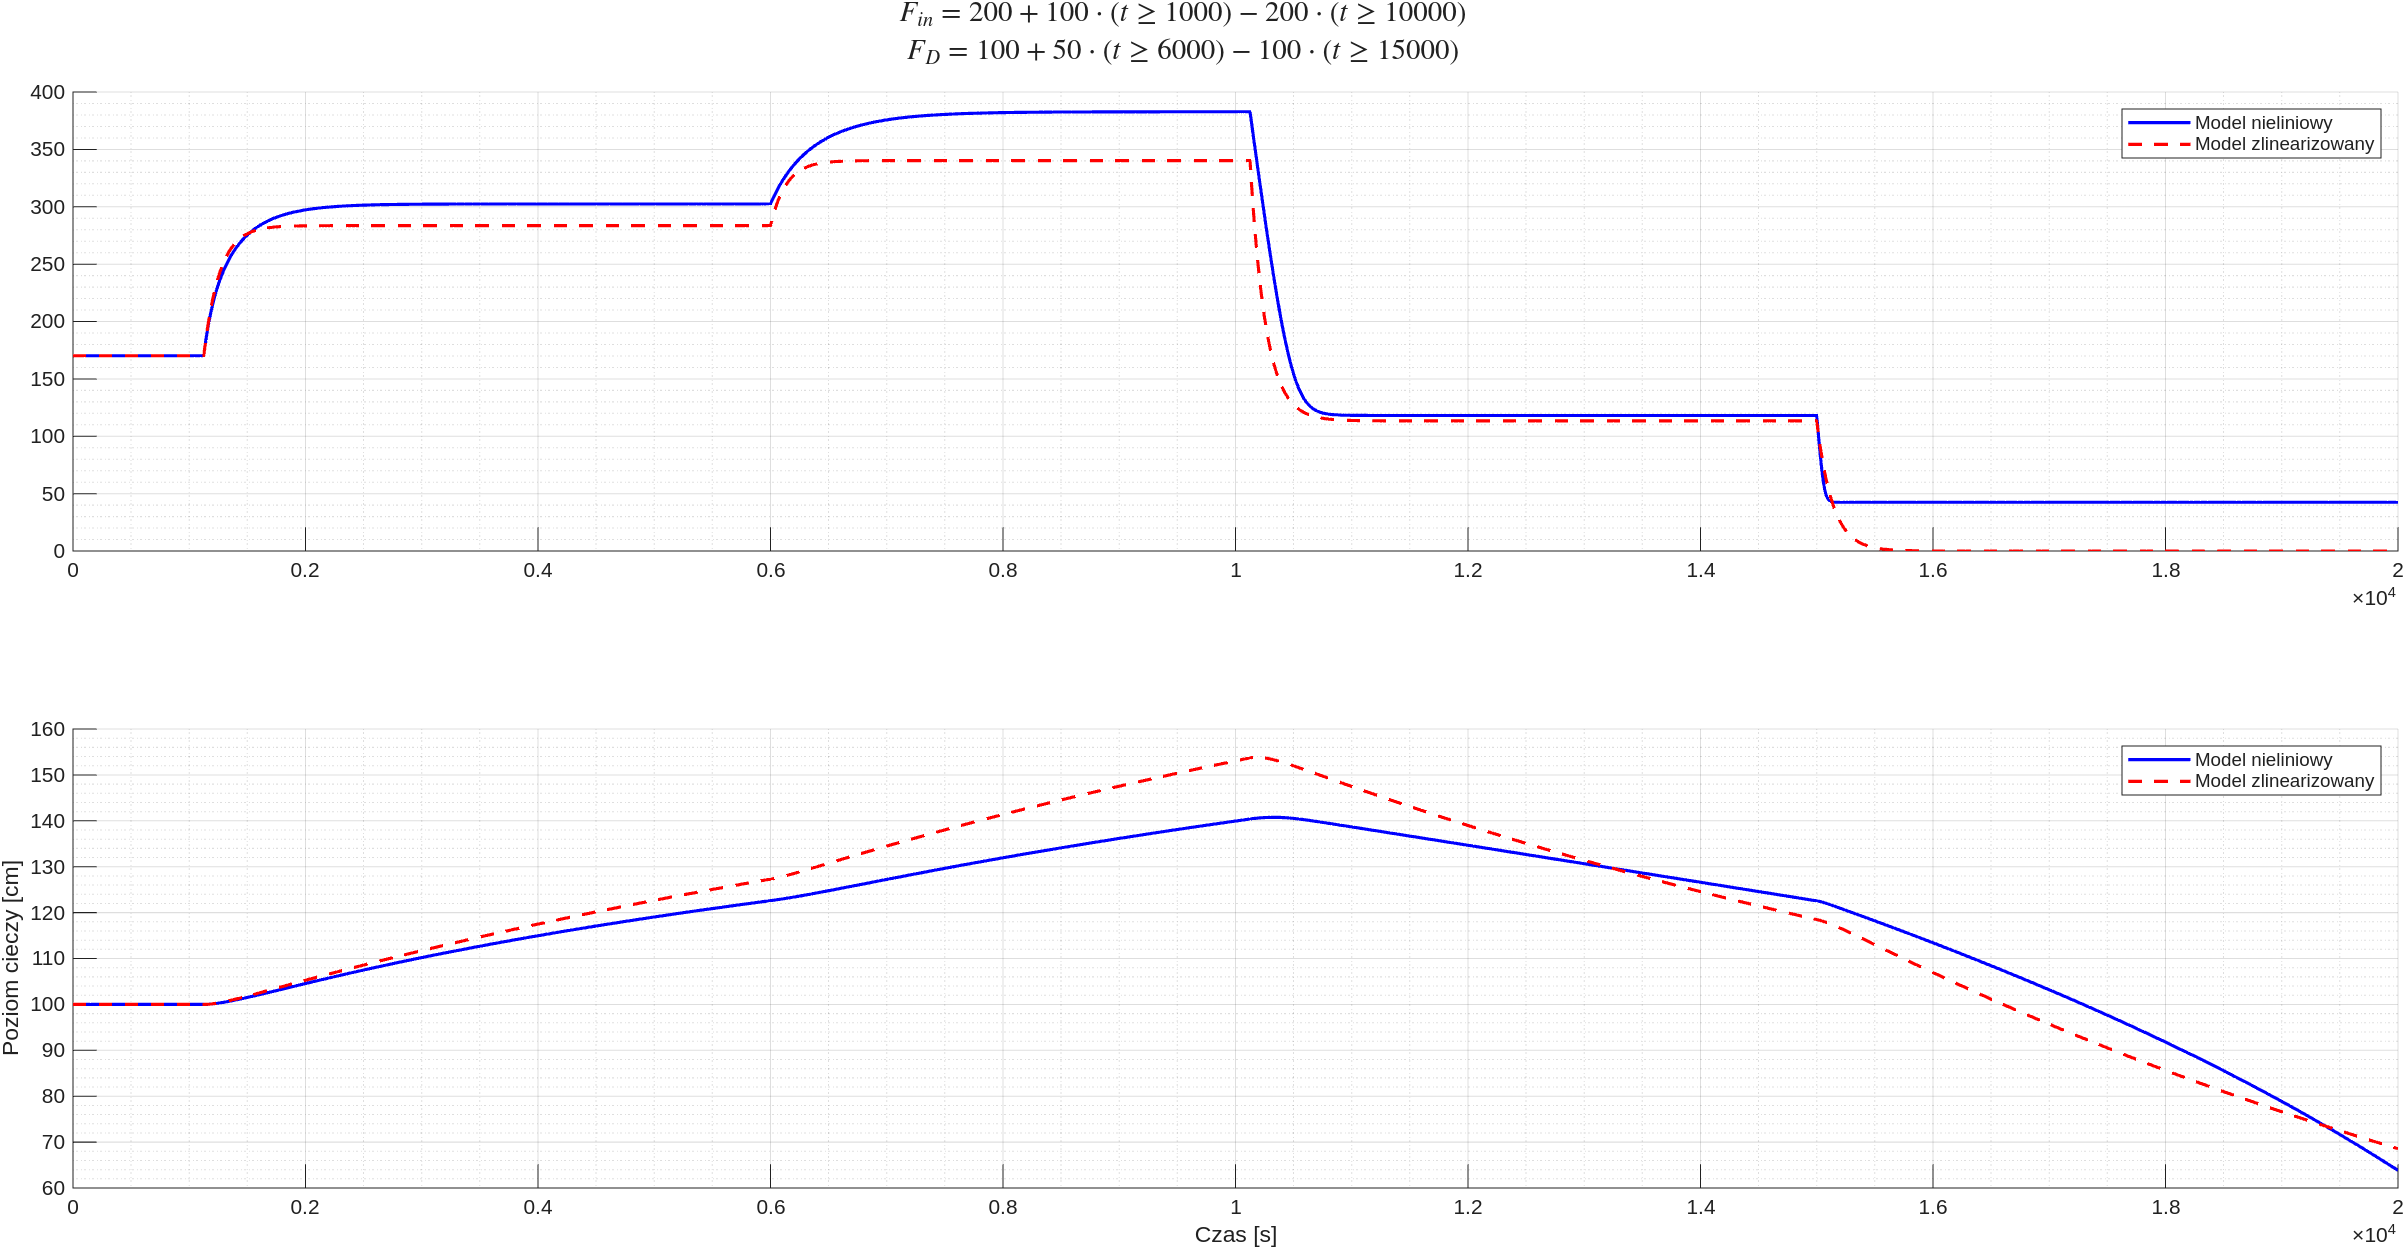
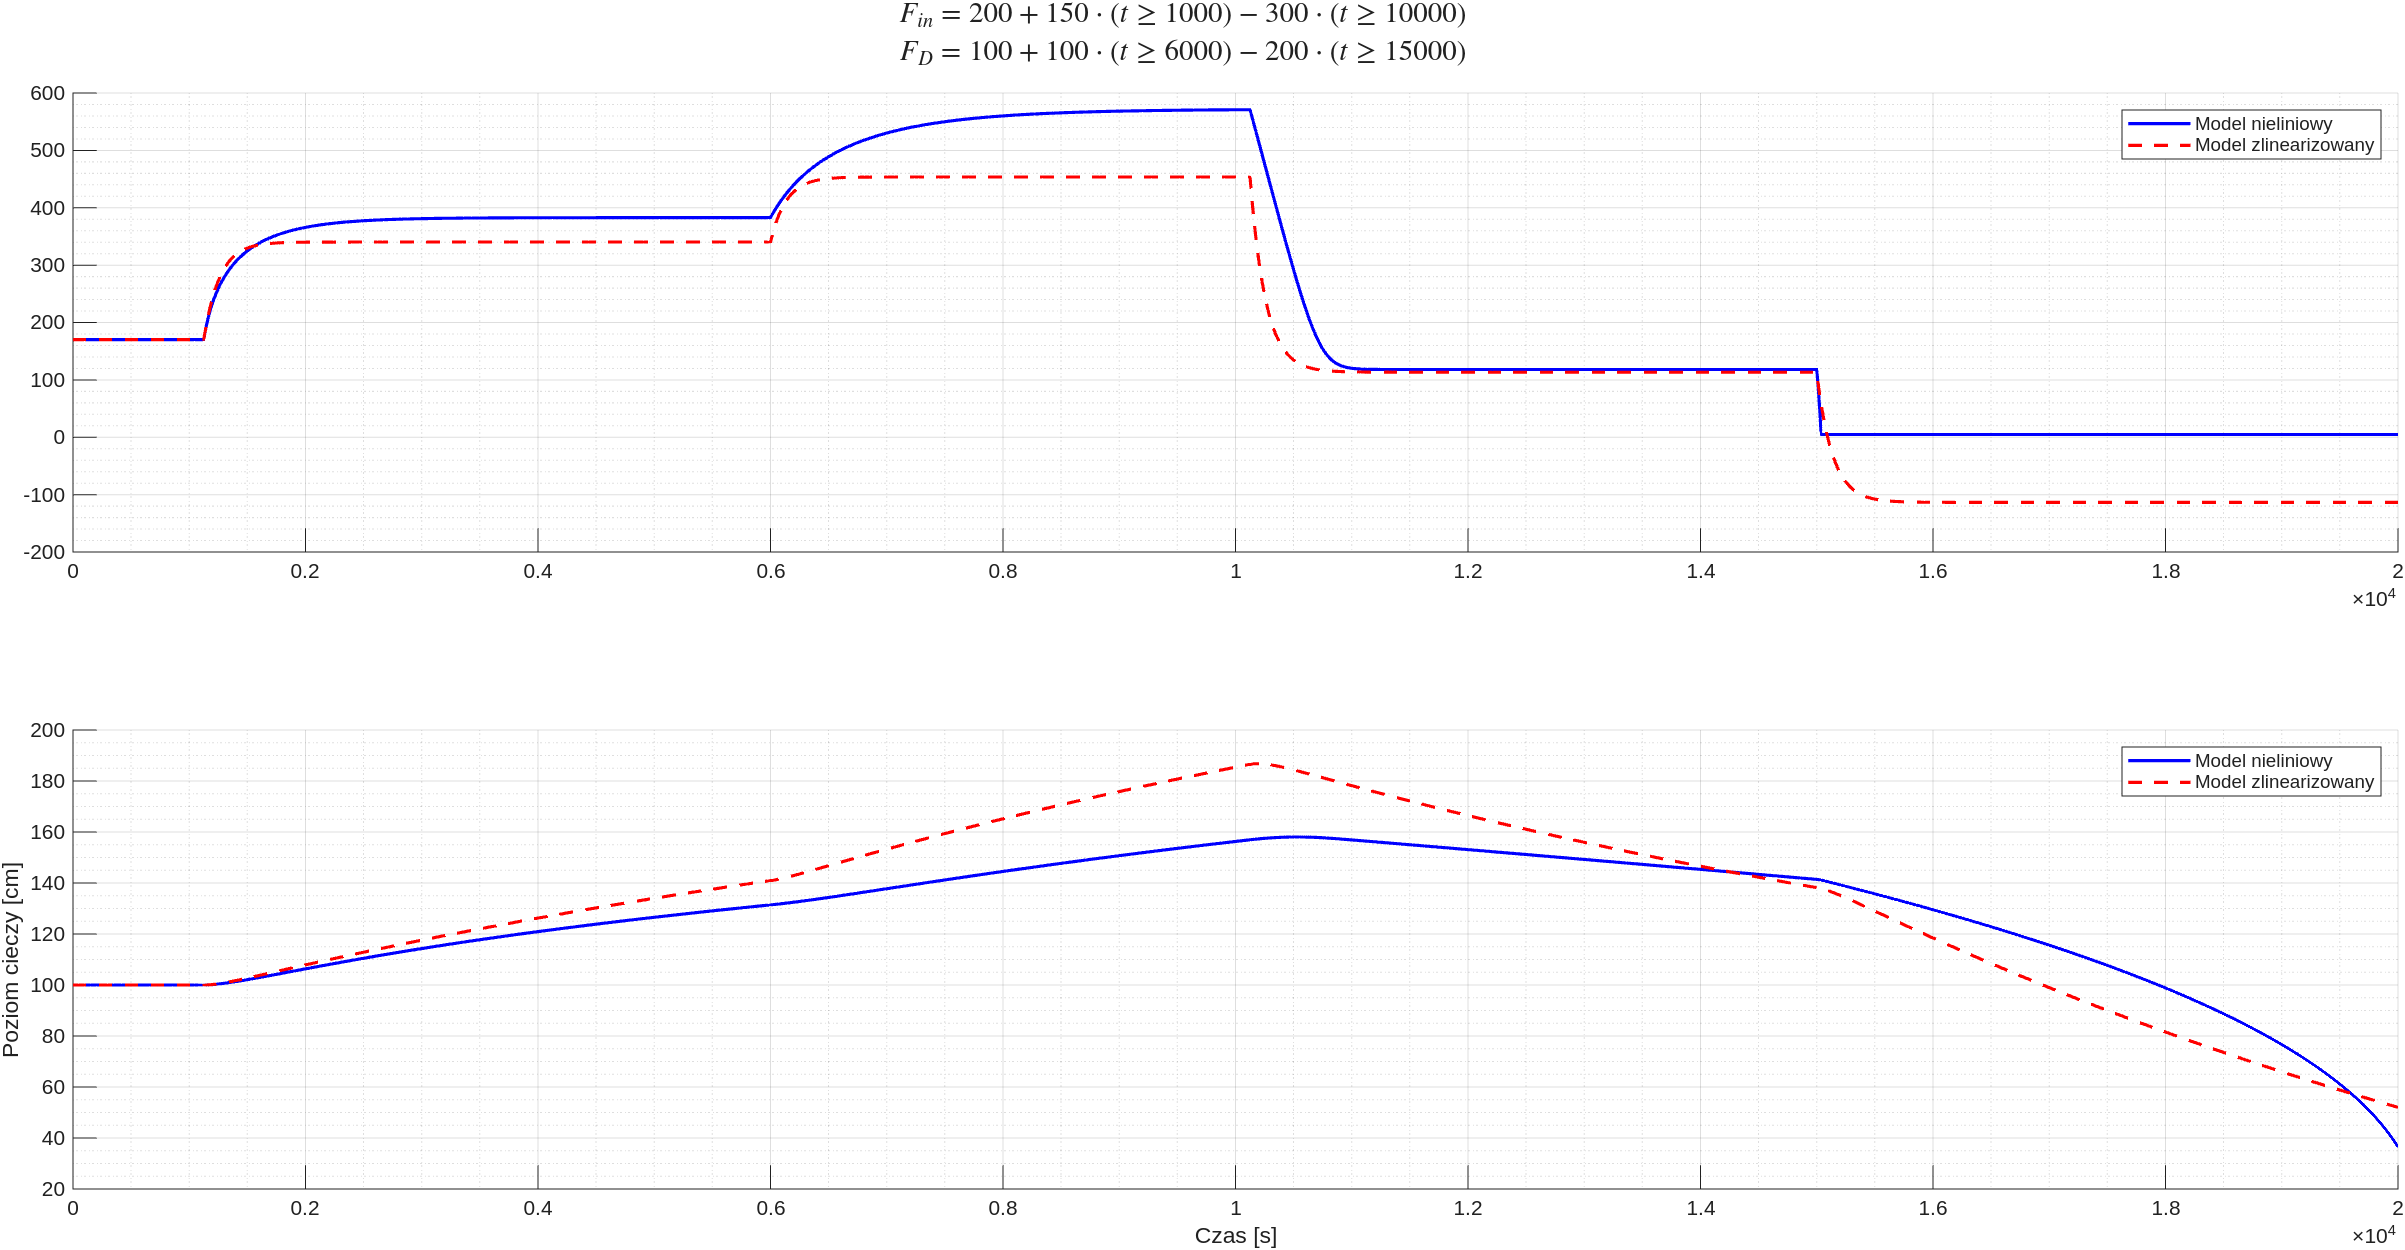
regulator DMC-SL analityczny

diff --git a/DMC_SL_a.m b/DMC_SL_a.m
@@ -1,0 +1,144 @@
+clear; clc;
+
+Tend = 12e5;
+Ts = 100; % okres próbkowania dla regulatora DMC
+
+time = 0 : Ts : Tend;             % czas symulacji
+
+h = [170, 100];  % początkowa wartość stanów
+
+y = zeros(length(time), 1);     % wektor wyjść (h2)
+y(1) = h(1,2);                  % początkowa wartość wyjścia   
+
+y_zad = 100 + 150*(time>0.1e5) - 150*(time>6e5);   % wartość zadana
+Fd = 100 + 50*(time>2.5e5) - 100*(time>8.5e5);    % zakłócenia
+
+Fin = zeros(length(time), 1);     % wektor sterowań
+
+D = 20e3;           % horyzont dynamiki
+N = 500;            % horyzont predykcji
+Nu = 10;            % horyzont sterowania
+lambda = 10;        % współczynnik kary
+
+s = zeros(1, D);
+Mp = zeros(N, D-1);
+M = zeros(N, Nu);
+K = zeros(Nu, N);
+ke = 0;
+kp = zeros(1, D-1);
+
+dUp1 = zeros(D-1, 1);  % wektor przyrostów sterowania z poprzednich kroków (początkowo zerowy)
+dUp2 = zeros(D-1, 1);  % wektor przyrostów zakłócenia z poprzednich kroków (początkowo zerowy)
+
+A = zeros(2,2);
+B = zeros(2,2);
+for k = 1 : length(time) - 1
+    fprintf('[%f %%]\n', 100 * k / (length(time)-1));
+
+    % Linearyzacja i wyznaczenie współczynników DMC
+    h2_p = y(k);
+    Fd_p = Fd(k);
+    h1_p = (30/23)^2 * h2_p;
+    F1_p = 23 * sqrt(h1_p) - Fd_p;
+
+    A(1,1) = -1.42857142857143*(F1_p + Fd_p - 23*sqrt(h1_p))/h1_p^2 - 16.4285714285714/h1_p^(3/2);
+    A(1,2) = 0;
+    A(2,1) = 8.51851851851852/(sqrt(h1_p)*h2_p^2);
+    A(2,2) = -1.48148148148148*(23*sqrt(h1_p) - 30*sqrt(h2_p))/h2_p^3 - 11.1111111111111/h2_p^(5/2);
+
+    B(1,1) = 1.42857142857143/h1_p;
+    B(1,2) = 1.42857142857143/h1_p;
+    B(2,1) = 0;
+    B(2,2) = 0;
+
+    x = [0; 0];
+    for i = 1 : D
+        x = x + Ts * (A * x + B * [1; 0]);
+        s(i) = x(2);
+    end
+
+    for i = 1 : N
+    for j = 1 : D-1
+        if i + j <= D
+            Mp(i,j) = s(i + j) - s(j);
+        else
+            Mp(i,j) = s(D) - s(j);
+        end
+    end
+    end
+
+    for i = 1 : N
+    for j = 1 : Nu
+        if i >= j
+            M(i,j) = s(i - j + 1);
+        else
+            M(i,j) = 0;
+        end
+    end
+    end
+
+    K = (M' * M + lambda * eye(Nu)) \ M';
+    ke = sum(K(1,:));
+    kp = K(1,:) * Mp;
+
+    % Obliczanie przyrostu sterowania
+    du1 = ke * ( y_zad(k) - y(k) ) - dot(kp, dUp1 + dUp2);
+    du1 = min(max(du1, -50), 50);  % ograniczenie przyrostu sterowania
+
+    % Aktualizacja wektora przyrostów sterowania z poprzednich kroków
+    dUp1 = [du1; dUp1(1 : end - 1)];
+
+    % Aktualizacja wektora przyrostów zakłócenia z poprzednich kroków
+    if k > 1
+        dUp2 = [Fd(k) - Fd(k-1); dUp2(1 : end - 1)]; 
+    end
+    
+    % Aktualizacja sterowania
+    if k > 1
+        Fin(k) = Fin(k - 1) + du1;
+    else
+        Fin(k) = du1 + 200;
+    end
+
+    Fin(k) = min(max(Fin(k), 0), 700); % ograniczenie sterowania
+    
+    % Przy nowym sterowaniu obliczamy wyjście w następnej chwili próbkowania.
+    f2 = @(t_,h_) [ ...
+        ( Fin(k) + Fd(k) - 23 * sqrt(h_(1))) / (0.7 * (h_(1))) ; ...
+        ( 23 * sqrt(h_(1)) - 30 * sqrt(h_(2))) / (1.35 * (h_(2))^2) ...
+    ];
+    [~, h_temp] = ode45(f2, [time(k) time(k+1)], h, odeset('RelTol',1e-3));
+    h = h_temp(end,:);
+    h(h < 1e-6) = 1e-6;
+    y(k+1) = h(2);
+end
+
+
+%% ---------------------------------------------------------------
+% rysujemy wykresy
+% (poprawiamy jeszcze ostatnią wartość sterowania, aby wykres był ładniejszy (zabieg kosmetyczny))
+Fin(end) = Fin(end-1);
+figure(4)
+subplot(3,1,1)
+hold on
+plot(time, y, 'LineWidth', 1.5)
+plot(time, y_zad, 'LineWidth', 1.5)
+ylim([min(y)-5, max(y)+5])
+grid on
+grid minor
+title('Wyjście y i wartość zadana [cm]')
+xlabel('Czas [s]')
+subplot(3,1,2)
+plot(time, Fin, 'LineWidth', 1.5)
+ylim([min(Fin)-5, max(Fin)+5])
+grid on
+grid minor
+title('Sterowanie F_{in} [cm^3/s]')
+xlabel('Czas [s]')
+subplot(3,1,3)
+plot(time, Fd, 'LineWidth', 1.5)
+ylim([min(Fd)-5, max(Fd)+5])
+title('Zakłócenie F_{D} [cm^3/s]')
+xlabel('Czas [s]')
+grid on
+grid minor
